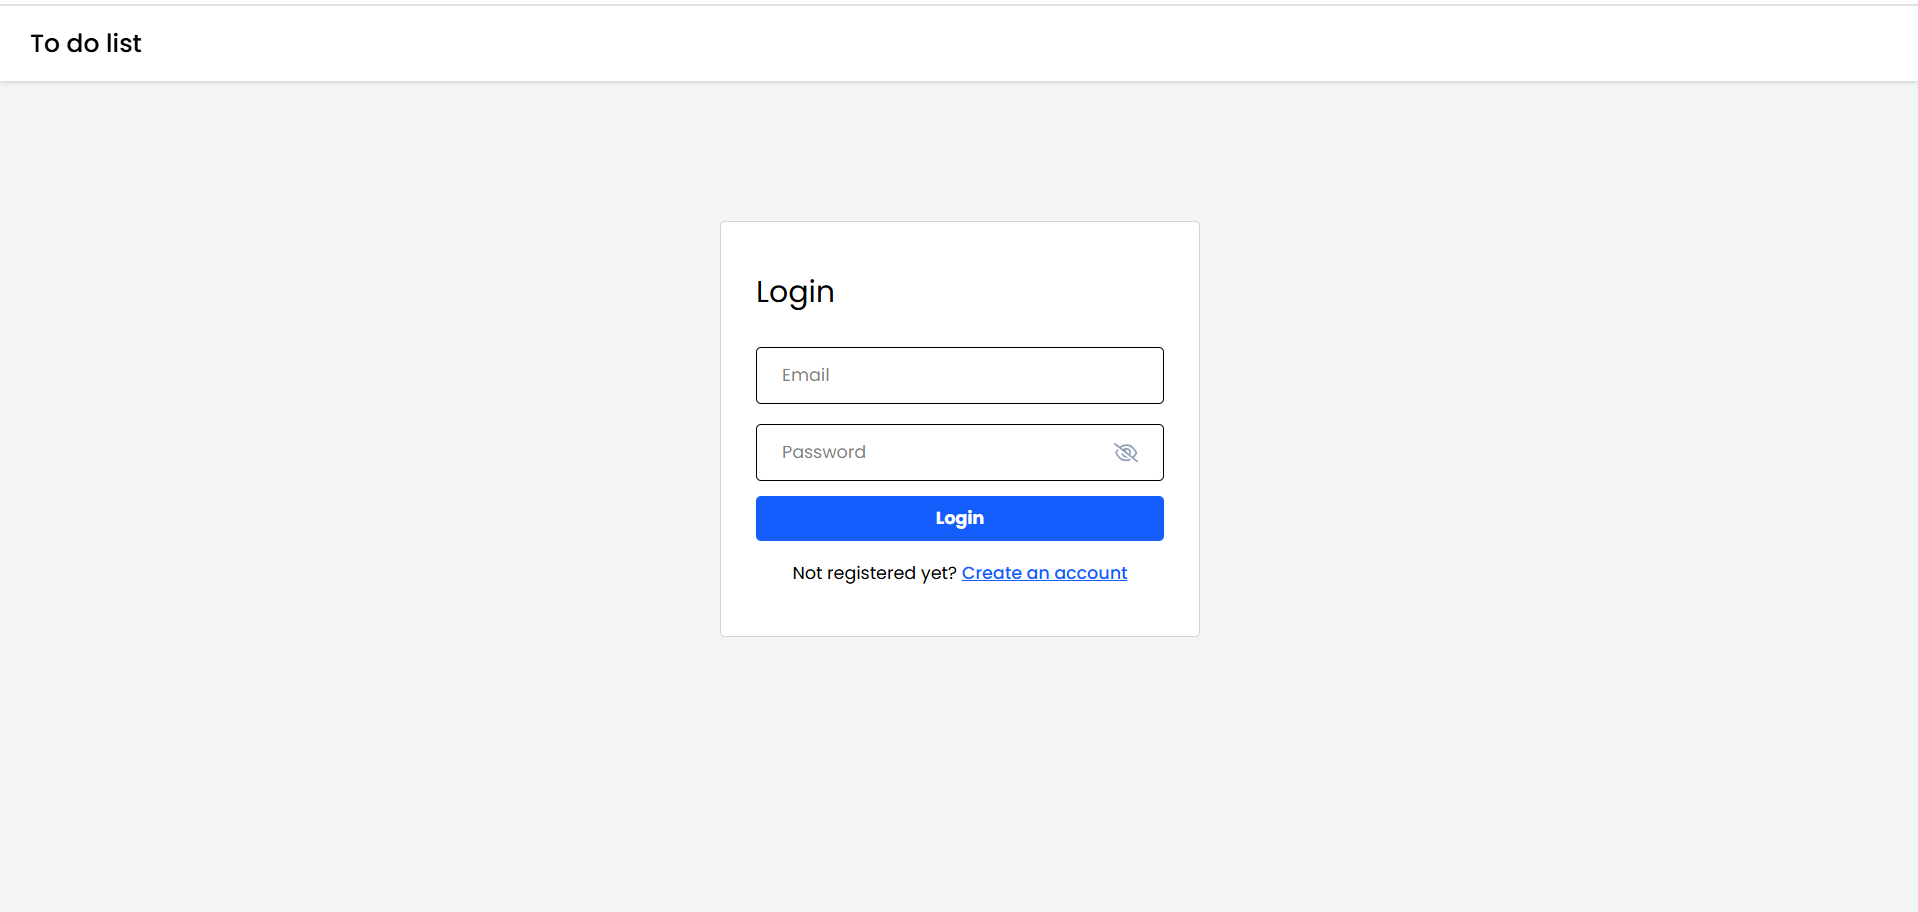
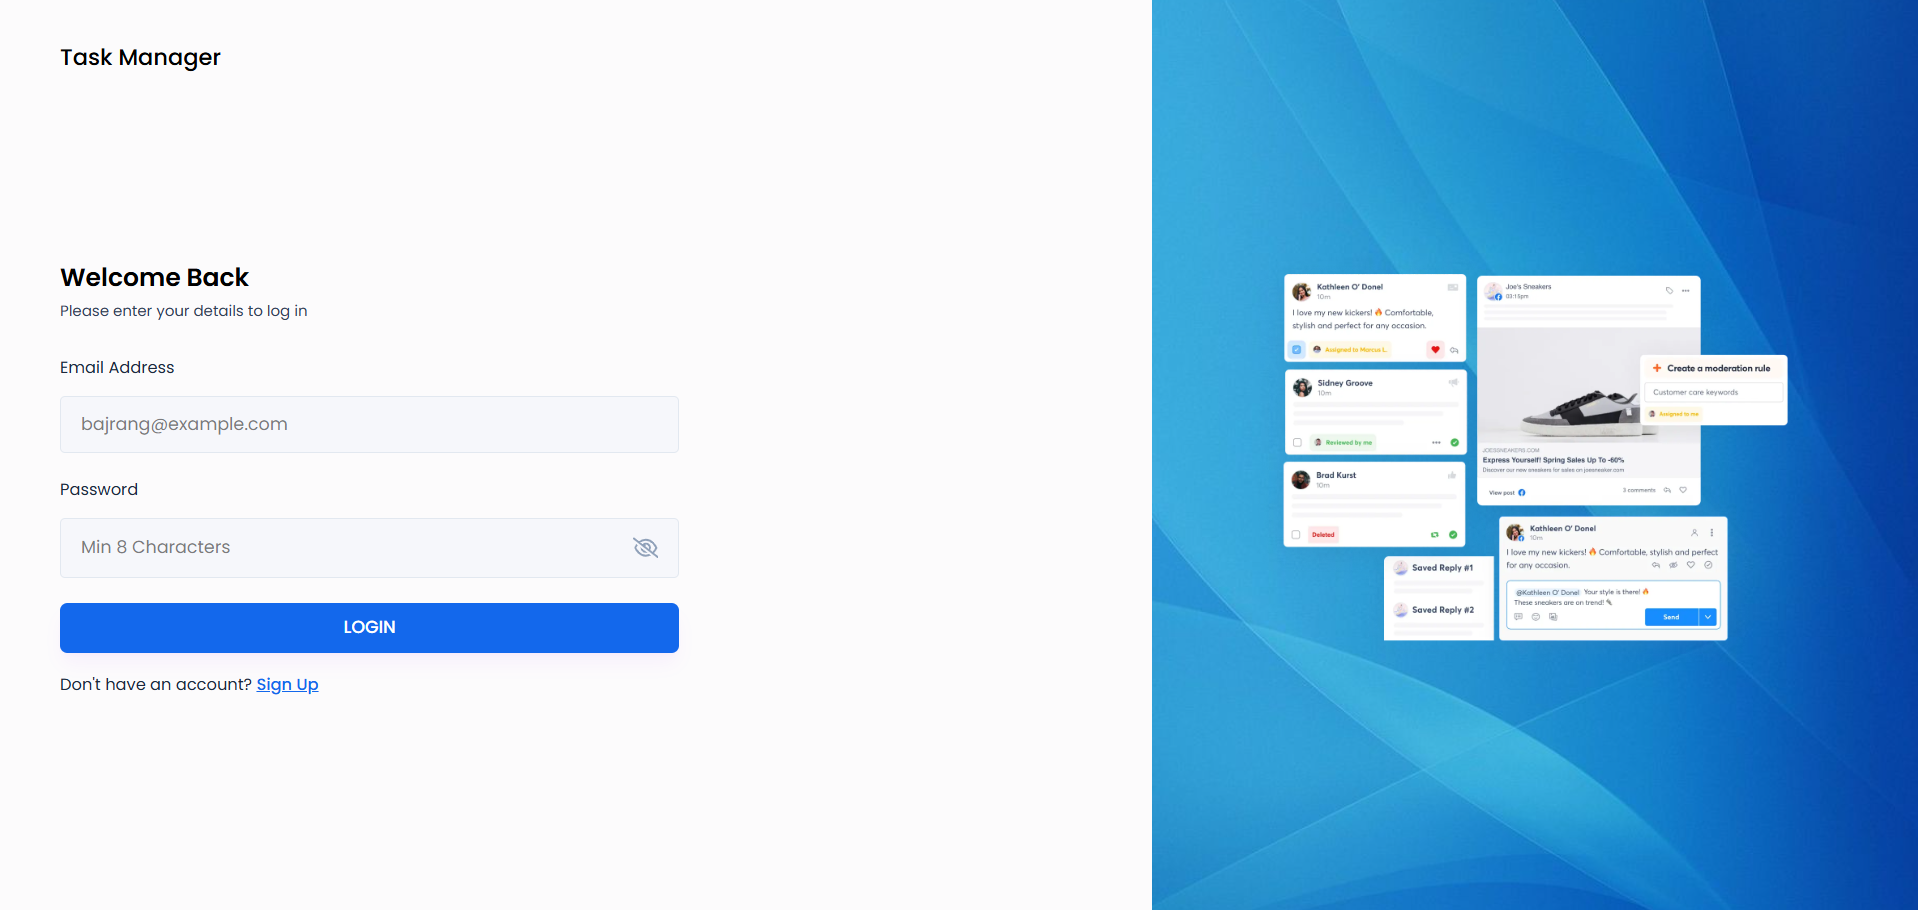
#

diff --git a/src/utils/data.js b/src/utils/data.js
@@ -111,24 +111,24 @@ export const PROJECTS = [
   },
   {
     id: 2,
-    title: "Todo App",
-    description: "A full-stack task management application with authentication, database integration, and smooth UI animations. Built using React, Tailwind CSS, Framer Motion, and MongoDB for seamless user experience.",
-    image: PROJECT_IMG_3,
-    tags: ["React", "Tailwind CSS", "Framer Motion", "MongoDB"],
-    liveUrl: "https://todo-app-mu-green.vercel.app/login",
-    githubUrl: "https://github.com/bajrangw/Todo_app",
+    title: "Task Manager",
+    description: "A full-stack Task Manager application with user authentication, role-based access, task assignment, and reporting. Built using React, Tailwind CSS, Axios, Node.js, Express, and MongoDB. Deployed on Vercel for both frontend and backend.",
+    image: PROJECT_IMG_3, 
+    tags: ["React", "Tailwind CSS", "Axios", "Node.js", "Express", "MongoDB", "Vercel"],
+    liveUrl: "https://task-manager-frontend-ten-steel.vercel.app/",
+    githubUrl: "https://github.com/bajrangw/Task-Manager",
     featured: true,
     category: "Full Stack",
   },
   {
     id: 3,
-    title: "E-Commerce Platform",
-    description: "A full-stack e-commerce solution",
-    image: PROJECT_IMG_3,
-    tags: ["React", "Tailwind", "Framer Motion"],
-    liveUrl: "#",
-    githubUrl: "#",
-    featured: false,
+    title: "Todo App",
+    description: "A full-stack task management application with authentication, database integration, and smooth UI animations. Built using React, Tailwind CSS, Framer Motion, and MongoDB for seamless user experience.",
+    image: PROJECT_IMG_4,
+    tags: ["React", "Tailwind CSS", "Framer Motion", "MongoDB"],
+    liveUrl: "https://todo-app-mu-green.vercel.app/login",
+    githubUrl: "https://github.com/bajrangw/Todo_app",
+    featured: true,
     category: "Full Stack",
   },
     {
